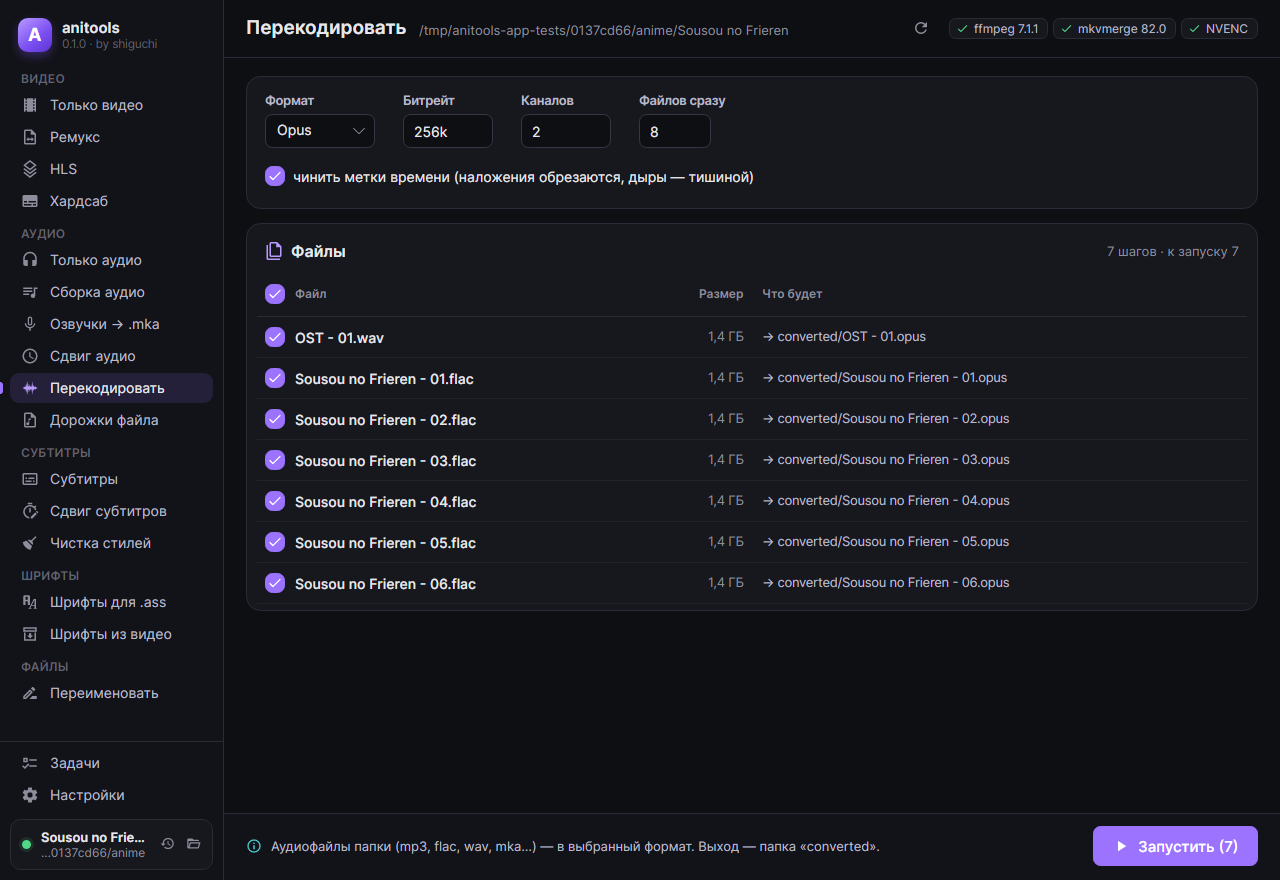
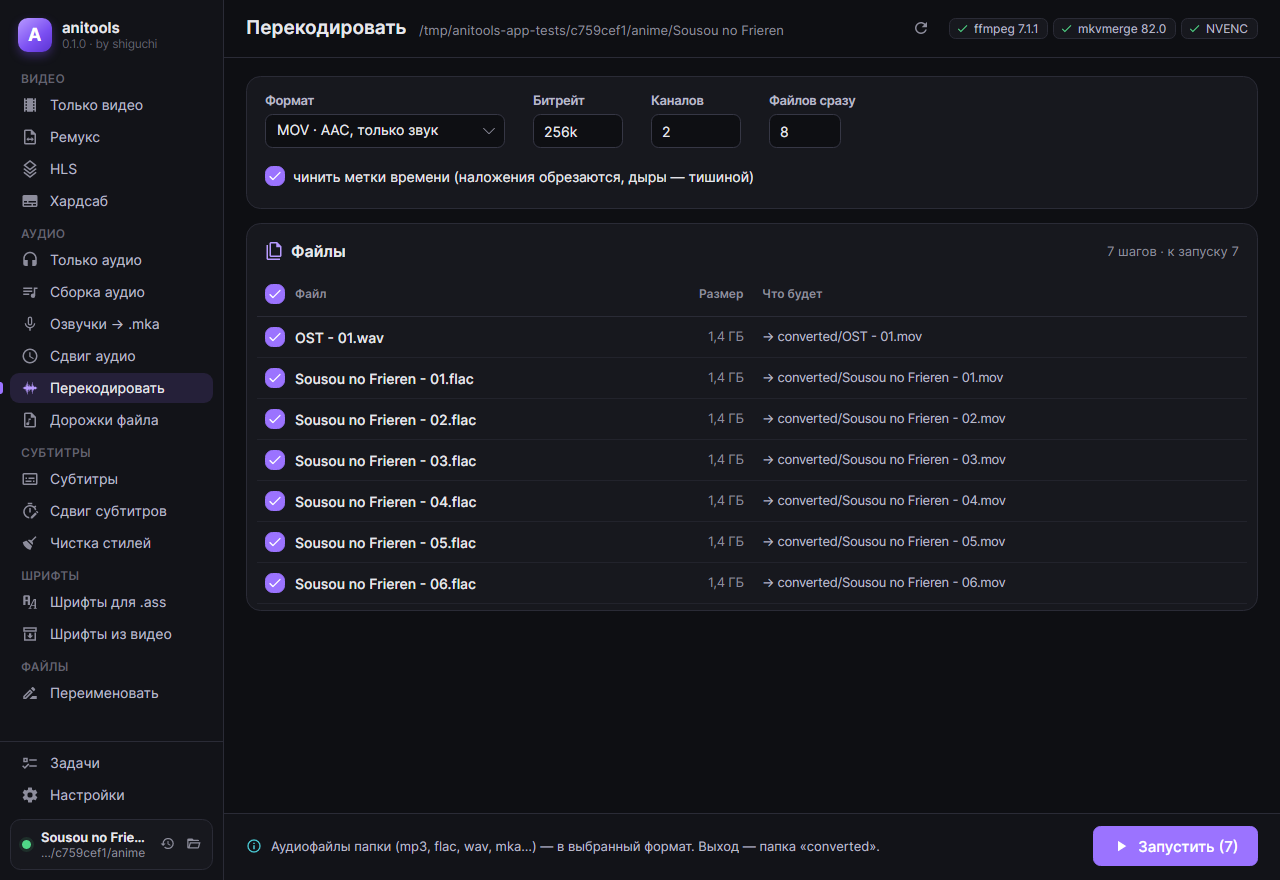
Перекодировать: MOV — AAC в QuickTime, только звук
Новый формат MOV: AAC LC в контейнере QuickTime (.mov), без обложки и
видео. Проверено на настоящем ffmpeg: mp3 с обложкой → .mov с одной
дорожкой AAC, бренд ftyp «qt  ». В списках форматы подписаны понятно:
«MKA · AAC», «MOV · AAC, только звук» и т.д.

Claude-Session: https://claude.ai/code/session_01BdLcn6FEckAvCHoTgtSA7g

diff --git a/tests/Anitools.Core.Tests/Integration/ToolsIntegrationTests.cs b/tests/Anitools.Core.Tests/Integration/ToolsIntegrationTests.cs
@@ -85,6 +85,36 @@ public sealed class ToolsIntegrationTests
     }
 
     [Fact]
+    public async Task Audio_convert_to_mov_keeps_only_audio()
+    {
+        var (tools, probe) = Tools();
+        using var dir = new TempDir();
+        // mp3 с обложкой: в m4a обложка переносится, в .mov — нет, там только звук
+        await MediaFactory.CreateAsync(dir.Combine("C.mp3"),
+        [
+            .. MediaFactory.Sine(440), "-f", "lavfi", "-i", "color=c=red:s=64x64:d=1",
+            "-map", "0:a", "-map", "1:v", "-c:a", "libmp3lame", "-c:v", "png", "-frames:v", "1", "-disposition:v:0", "attached_pic",
+        ]);
+        Assert.Single((await probe.ProbeAsync(dir.Combine("C.mp3"), Ct)).VideoStreams);
+
+        var mov = await Execute(tools, probe, dir, AudioConvertOperation.Plan(dir.Path, new AudioConvertOptions { Format = AudioFormat.Mov }), 8);
+
+        var item = Assert.Single(mov.Items);
+        Assert.True(item.Outcome == ItemOutcome.Done, $"{item.Message} {item.LogPath}");
+        var info = await probe.ProbeAsync(dir.Combine("converted", "C.mov"), Ct);
+        Assert.Empty(info.VideoStreams);
+        Assert.Equal(("aac", 2), (Assert.Single(info.AudioStreams).CodecName, info.AudioStreams[0].Channels));
+        // именно QuickTime: в ftyp основной бренд «qt  », а не mp4/m4a
+        var head = new byte[12];
+        await using (var file = File.OpenRead(dir.Combine("converted", "C.mov")))
+        {
+            await file.ReadExactlyAsync(head, Ct);
+        }
+
+        Assert.Equal("ftypqt  ", System.Text.Encoding.ASCII.GetString(head, 4, 8));
+    }
+
+    [Fact]
     public async Task Hardsub_burns_subtitles_into_part_file_then_renames()
     {
         var (tools, probe) = Tools();

diff --git a/src/Anitools.App/Views/Converters.cs b/src/Anitools.App/Views/Converters.cs
@@ -1,3 +1,4 @@
+using Anitools.Core.Operations.AudioTools;
 using Avalonia.Data.Converters;
 using Avalonia.Media;
 
@@ -16,6 +17,21 @@ public static class Converters
 
     /// <summary>0 серий у Shikimori — «ещё неизвестно»: пусто, как в оригинале.</summary>
     public static FuncValueConverter<int, string> EmptyIfZero { get; } = new(n => n == 0 ? "" : n.ToString(System.Globalization.CultureInfo.InvariantCulture));
+
+    /// <summary>Формат «Перекодировать» в списке: «MKA · AAC», «MOV · AAC, только звук».</summary>
+    public static FuncValueConverter<object?, string> AudioFormatLabel { get; } = new(value =>
+        (value is AudioFormat format || Enum.TryParse(value as string, out format)) ? format switch
+        {
+            AudioFormat.Mka => "MKA · AAC",
+            AudioFormat.M4a => "M4A · AAC",
+            AudioFormat.Mp3 => "MP3",
+            AudioFormat.Opus => "Opus",
+            AudioFormat.Ogg => "OGG · Vorbis",
+            AudioFormat.Flac => "FLAC",
+            AudioFormat.Wav => "WAV",
+            AudioFormat.Mov => "MOV · AAC, только звук",
+            _ => format.ToString(),
+        } : value?.ToString() ?? "");
 
     /// <summary>Номер, поправленный руками, — жирным.</summary>
     public static FuncValueConverter<bool, FontWeight> BoldIf { get; } = new(b => b ? FontWeight.Bold : FontWeight.Normal);

diff --git a/src/Anitools.Core/Operations/AudioTools/AudioToolsOperations.cs b/src/Anitools.Core/Operations/AudioTools/AudioToolsOperations.cs
@@ -111,6 +111,9 @@ public enum AudioFormat
 
     /// <summary>PCM 16 бит, без потерь.</summary>
     Wav,
+
+    /// <summary>AAC LC в QuickTime (.mov) — только аудио, без обложки (для монтажных программ).</summary>
+    Mov,
 }
 
 public sealed record AudioConvertOptions
@@ -149,6 +152,7 @@ public static class AudioConvertOperation
         AudioFormat.Ogg => (".ogg", ["-c:a", "libvorbis", "-b:a", bitrate]),
         AudioFormat.Flac => (".flac", ["-c:a", "flac"]),
         AudioFormat.Wav => (".wav", ["-c:a", "pcm_s16le"]),
+        AudioFormat.Mov => (".mov", ["-c:a", "aac", "-profile:a", "aac_low", "-b:a", bitrate]),
         _ => throw new ArgumentOutOfRangeException(nameof(format)),
     };
 
@@ -183,9 +187,9 @@ public static class AudioConvertOperation
             }
 
             args.AddRange(["-map_metadata", "0"]);
-            if (ext != ".mka")
+            if (ext is not (".mka" or ".mov"))
             {
-                // Обложку как attached_pic понимают mp4/m4a/mp3 и т.п., но не Matroska
+                // Обложку как attached_pic понимают mp4/m4a/mp3 и т.п., но не Matroska; в .mov — только аудио
                 args.AddRange(["-map", "0:v?", "-c:v", "copy", "-disposition:v", "attached_pic"]);
             }
 

diff --git a/tests/Anitools.App.Tests/ToolPagesTests.cs b/tests/Anitools.App.Tests/ToolPagesTests.cs
@@ -68,6 +68,14 @@ public sealed class ToolPagesTests
         Assert.Equal("→ " + Path.Combine("converted", "Show - 01.flac"), convert.Preview.Rows[0].Target);
         convert.Channels = "";
         Assert.DoesNotContain("-ac", convert.Preview.Plan!.Items[0].Command!.Arguments);
+
+        // MOV — AAC в QuickTime, только звук: обложка (attached_pic) не переносится
+        convert.Format = AudioFormat.Mov;
+        Assert.True(convert.HasBitrate);
+        Assert.Equal("→ " + Path.Combine("converted", "Show - 01.mov"), convert.Preview.Rows[0].Target);
+        Assert.DoesNotContain("attached_pic", convert.Preview.Plan!.Items[0].Command!.Arguments);
+        Assert.Equal("MOV · AAC, только звук", Views.Converters.AudioFormatLabel.Convert(AudioFormat.Mov, typeof(string), null, System.Globalization.CultureInfo.InvariantCulture));
+        Assert.Equal("FLAC", Views.Converters.AudioFormatLabel.Convert("Flac", typeof(string), null, System.Globalization.CultureInfo.InvariantCulture));
     }
 
     [AvaloniaFact]

diff --git a/tests/Anitools.App.Tests/ScreenshotTests.cs b/tests/Anitools.App.Tests/ScreenshotTests.cs
@@ -325,7 +325,7 @@ public sealed class ScreenshotTests
         using var app = new AppFixture().WithFiles([.. Episodes.Take(6).Select(e => Path.ChangeExtension(e, ".flac")), "OST - 01.wav"]);
         var (vm, window) = await OpenAsync(app);
         vm.SelectedNav = vm.AudioConvertPage;
-        vm.AudioConvertPage.Format = Anitools.Core.Operations.AudioTools.AudioFormat.Opus;
+        vm.AudioConvertPage.Format = Anitools.Core.Operations.AudioTools.AudioFormat.Mov;
         await AppFixture.WaitUntilAsync(() => vm.AudioConvertPage.Preview.Rows.Count == 7, "план");
 
         Capture(window, "audio-convert");
